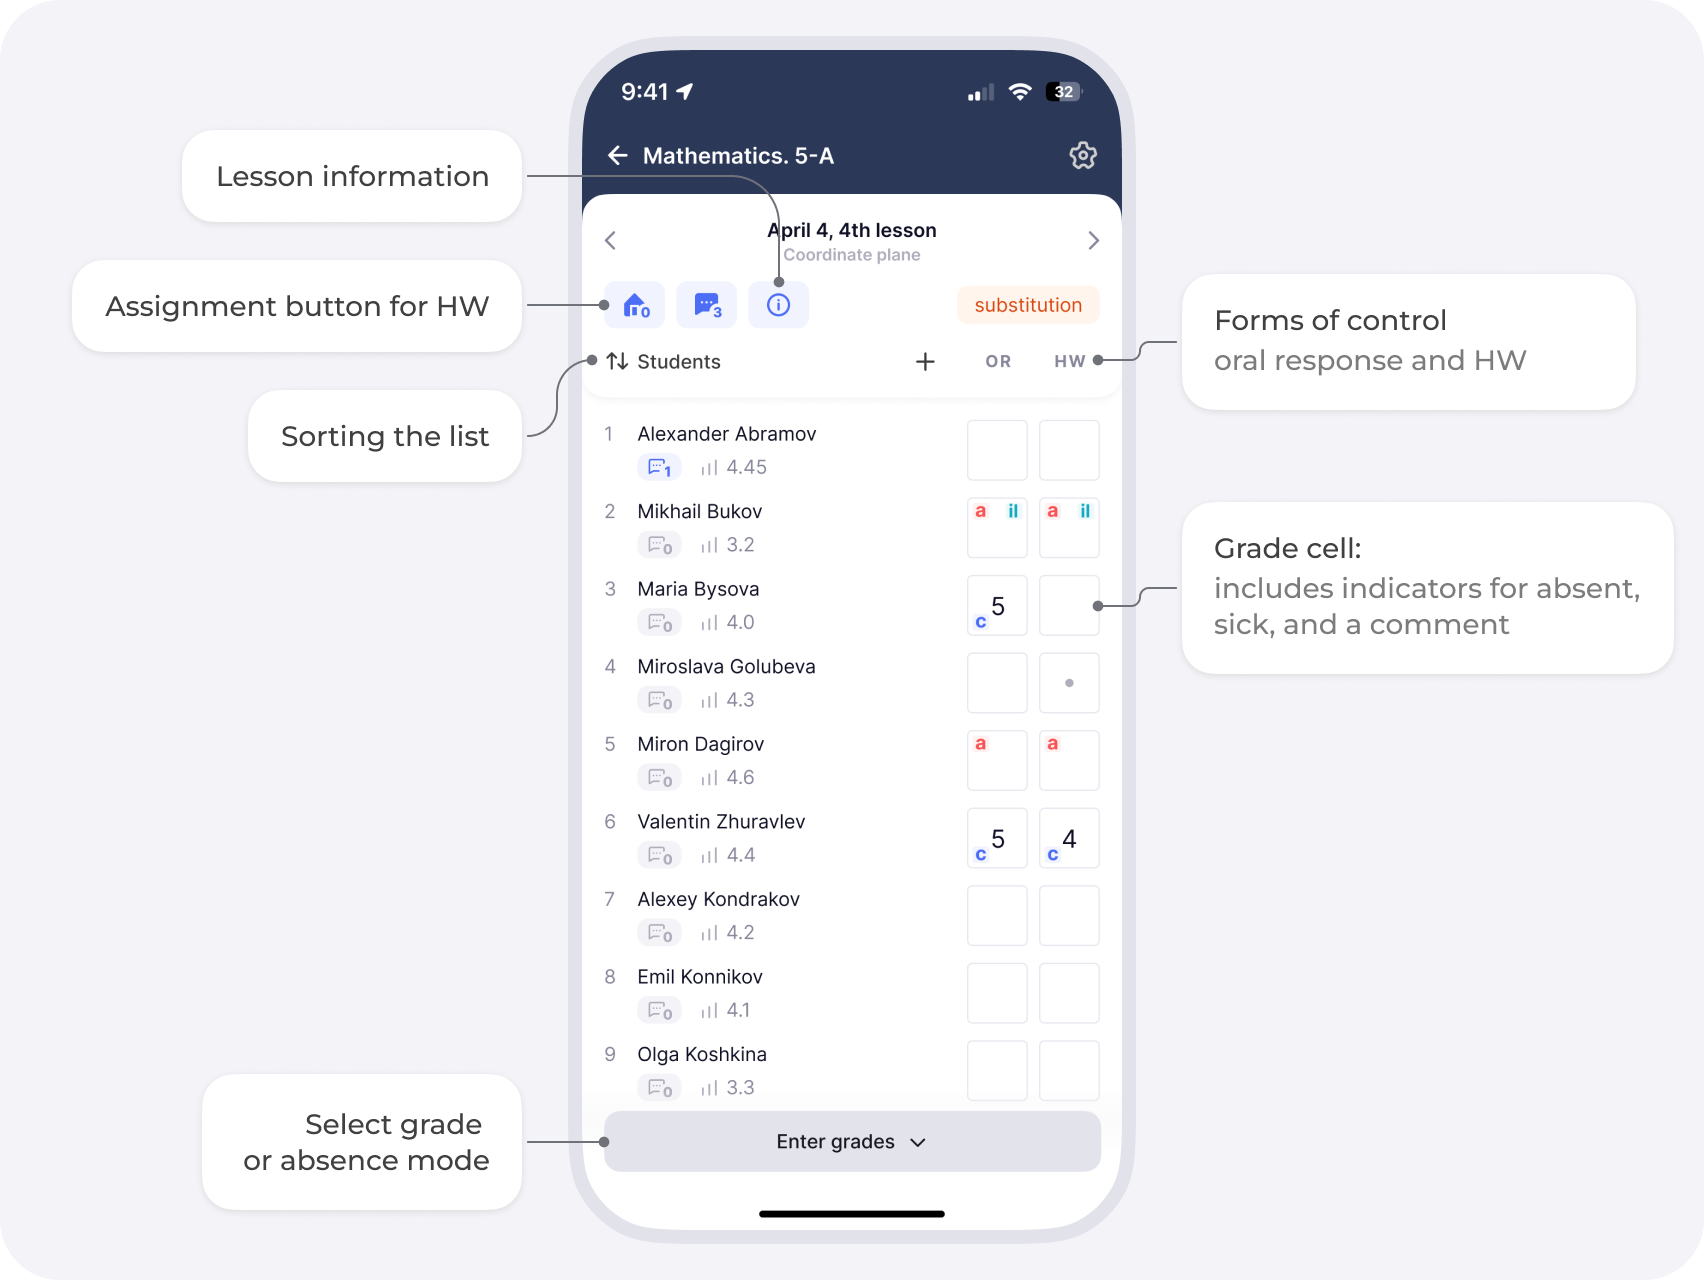
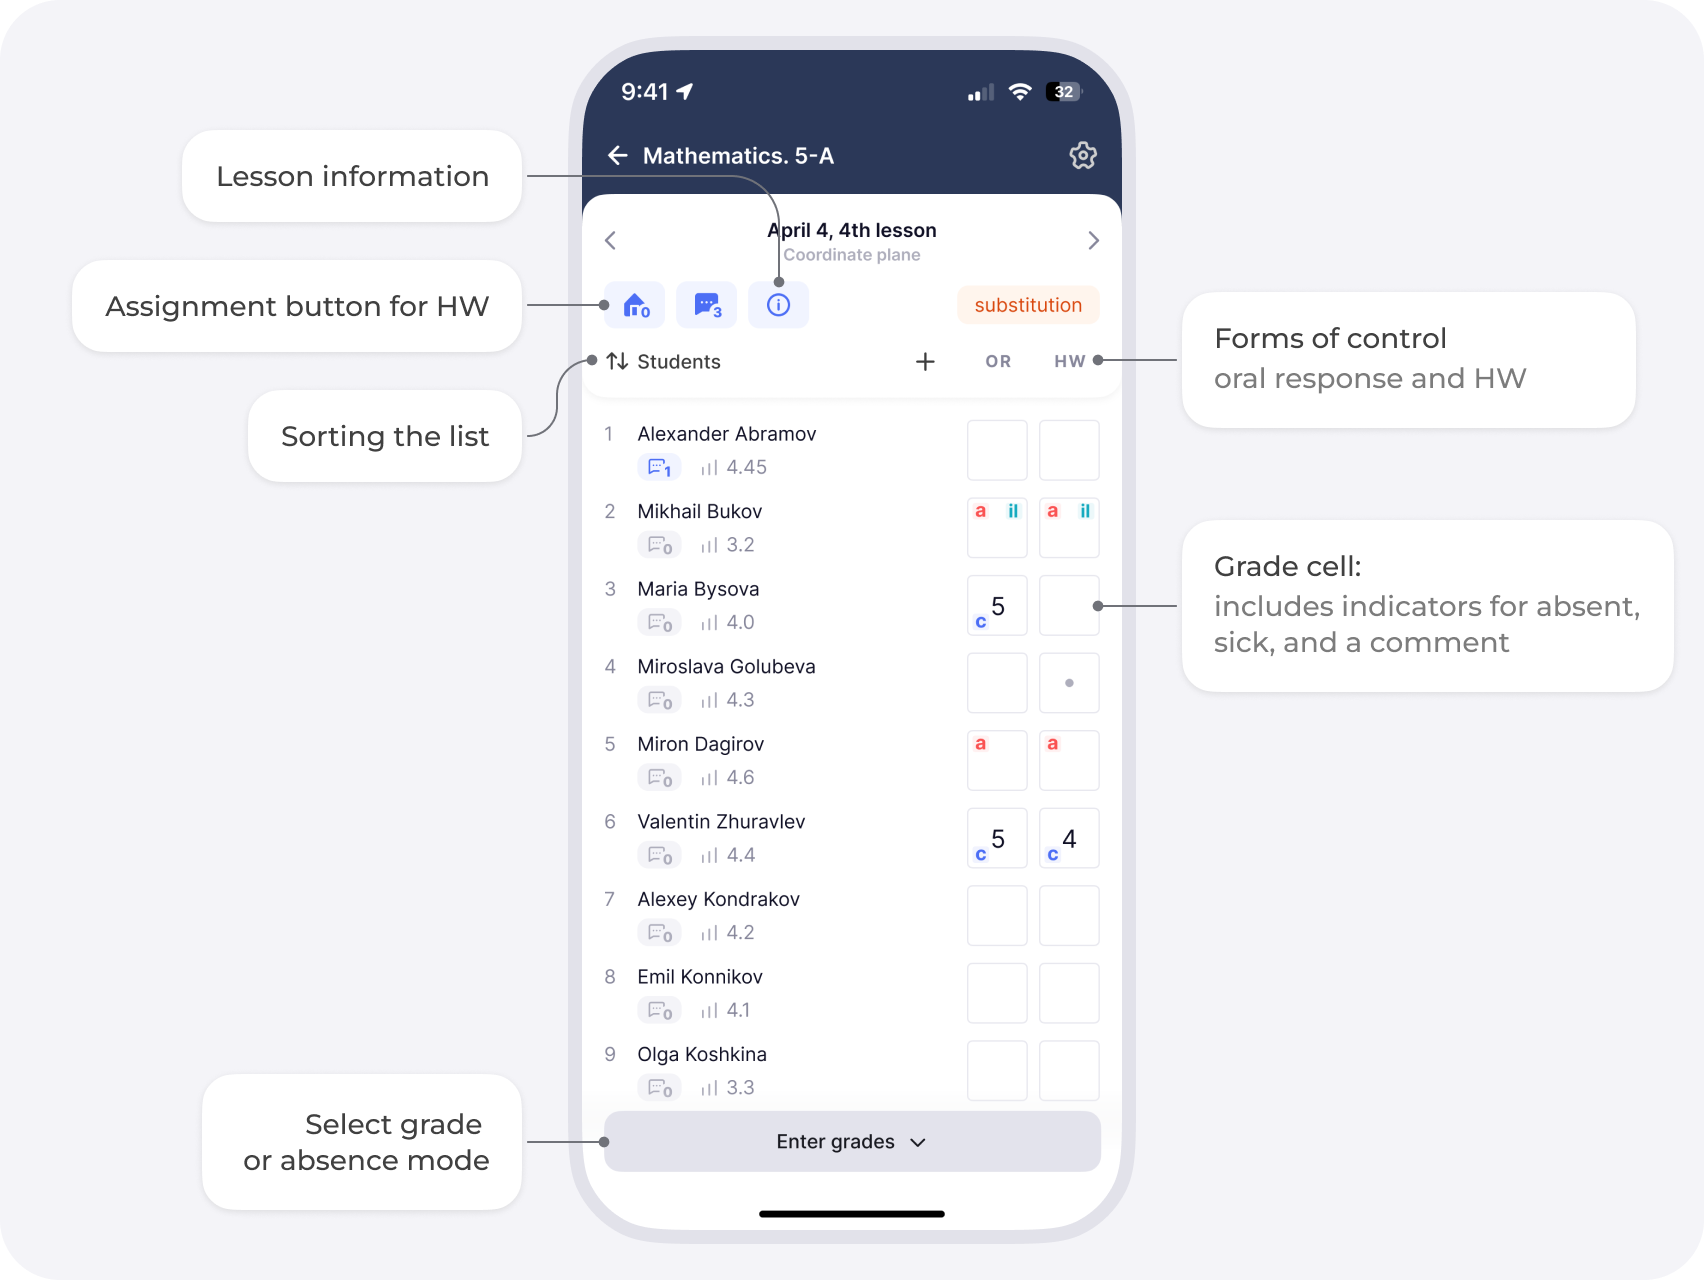
замена фото на англ и результаты в приоритете

Changed region(s): [[0.7154, 0.4062, 0.9642, 0.5312], [0.7154, 0.25, 0.902, 0.3125]]

diff --git a/picking-priority/index.html b/picking-priority/index.html
@@ -226,16 +226,16 @@
                         <div class="bento-results__label" data-i18n="pp_res_label_2">UX score based on surveys</div>
                     </div>
                     <div class="bento-results__card bento-results__card--dark">
-                        <div class="bento-results__value" data-i18n="pp_res_metric_3">4K+ DAU</div>
-                        <div class="bento-results__label" data-i18n="pp_res_label_3">Daily active users</div>
+                        <div class="bento-results__value" data-i18n="pp_res_metric_3">A/B test</div>
+                        <div class="bento-results__label" data-i18n="pp_res_label_3">1 175 dark stores</div>
                     </div>
                     <div class="bento-results__card bento-results__card--dark bento-results__card--released">
                         <div class="bento-results__value" data-i18n="pp_res_metric_5">Released</div>
                         <div class="bento-results__label" data-i18n="pp_res_label_5">2 400 dark stores</div>
                     </div>
                     <div class="bento-results__card bento-results__card--accent">
-                        <div class="bento-results__value" data-i18n="pp_res_metric_4">A/B test</div>
-                        <div class="bento-results__label" data-i18n="pp_res_label_4">1 175 dark stores</div>
+                        <div class="bento-results__value" data-i18n="pp_res_metric_4">Lots of positive reviews</div>
+                        <div class="bento-results__label" data-i18n="pp_res_label_4"></div>
                     </div>
                 </div>
             </div>

diff --git a/js/i18n.js b/js/i18n.js
@@ -227,10 +227,10 @@
       pp_res_label_1: "Time to Task",
       pp_res_metric_2: "4,8 / 5",
       pp_res_label_2: "UX score based on surveys",
-      pp_res_metric_3: "4K+ DAU",
-      pp_res_label_3: "Daily active users",
-      pp_res_metric_4: "A/B test",
-      pp_res_label_4: "1 175 dark stores",
+      pp_res_metric_3: "A/B test",
+      pp_res_label_3: "1 175 dark stores",
+      pp_res_metric_4: "Lots of positive reviews",
+      pp_res_label_4: "",
       pp_res_metric_5: "Released",
       pp_res_label_5: "2 400 dark stores",
       pp_result_summary: "The tool significantly improved the speed and accuracy of priority management for darkstore administrators.",
@@ -650,10 +650,10 @@
       pp_res_label_1: "Time to Task",
       pp_res_metric_2: "4,8 / 5",
       pp_res_label_2: "UX-оценка по опросам",
-      pp_res_metric_3: "4K+ DAU",
-      pp_res_label_3: "Активных пользователей в день",
-      pp_res_metric_4: "A/B-тест",
-      pp_res_label_4: "1 175 Dark stores",
+      pp_res_metric_3: "A/B test",
+      pp_res_label_3: "1 175 Dark stores",
+      pp_res_metric_4: "Lots of positive reviews",
+      pp_res_label_4: "",
       pp_res_metric_5: "Выкатили",
       pp_res_label_5: "2 400 Dark stores",
       pp_result_summary: "Инструмент значительно улучшил скорость и точность управления приоритетами для администраторов Dark store.",
